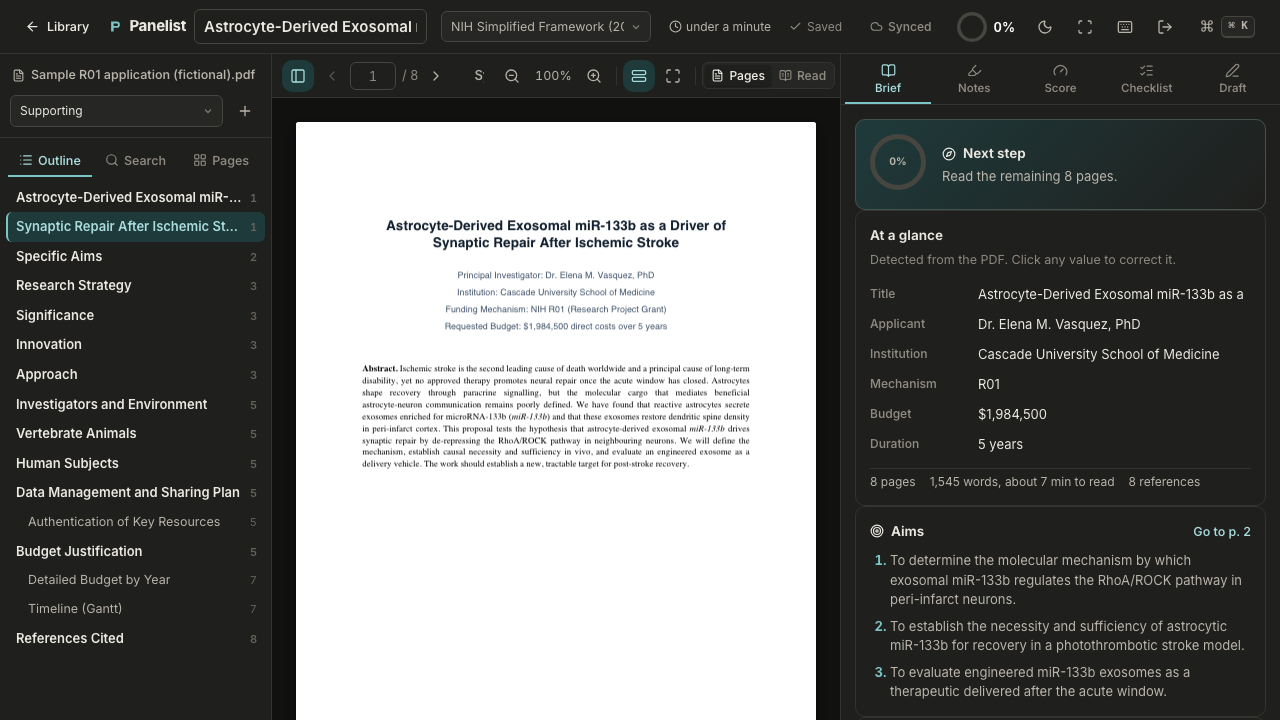
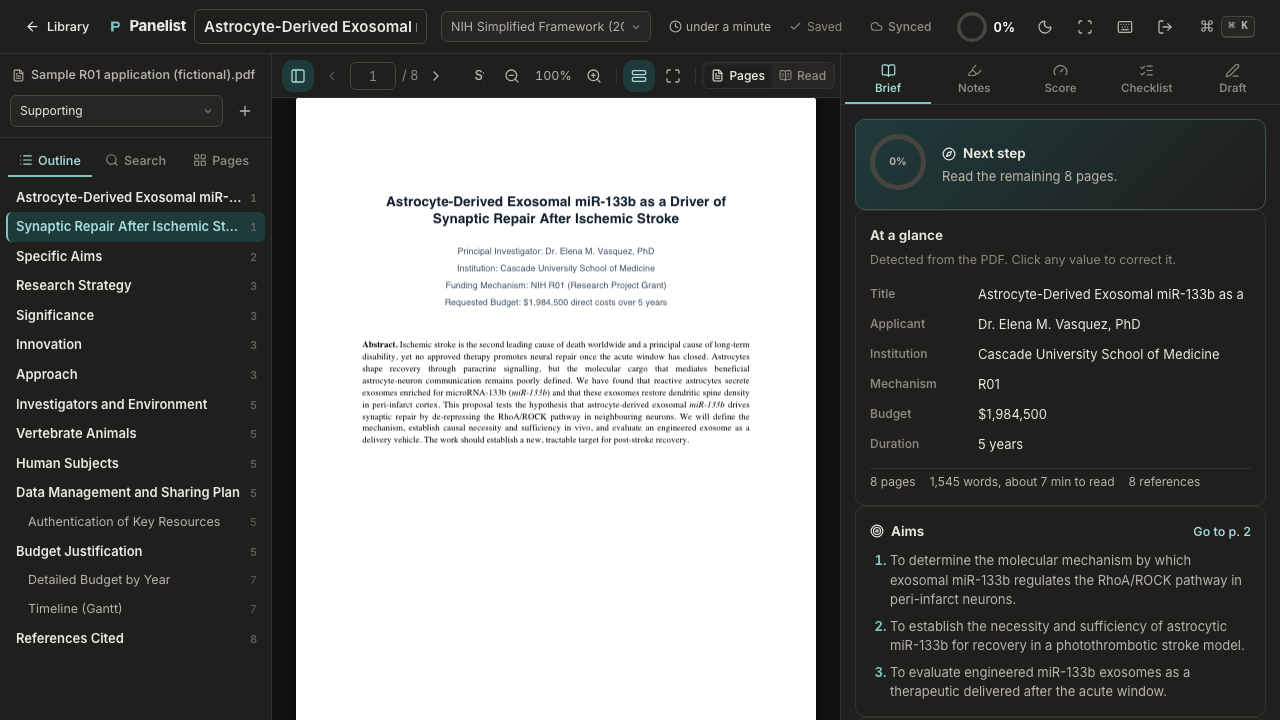
Keep the page when switching between the PDF and reading views on a phone
The PDF viewer laid pages out at a guessed 800px width before measuring its
container, restored the shared position against that layout, and then
published the resulting wrong page back to the store, so on a phone the
Pages view opened elsewhere and the reading view followed it. The viewer now
waits for a real measurement, re-anchors the current page whenever the
layout changes (zoom, fit, resize, rotation), and publishes no page until
the restore has happened.

The reading view's page tracker also probed above where jumps land a block,
so a jump to page N could report N-1; it now reads the page at the same
offset jumps use. A phone test covers the round trip.

Claude-Session: https://claude.ai/code/session_01J5WAiMnYmGh7GXbPsLHD9a

Changed region(s): [[0.2812, 0.275, 0.5938, 0.6722], [0.2188, 0.1222, 0.6562, 0.1833]]

diff --git a/src/components/viewer/PdfViewer.tsx b/src/components/viewer/PdfViewer.tsx
@@ -33,9 +33,12 @@ export function PdfViewer() {
   const searchQuery = useStore((s) => s.searchQuery);
   const navTab = useStore((s) => s.navTab);
   const scrollRef = useRef<HTMLDivElement>(null);
-  const [containerW, setContainerW] = useState(800);
+  // Zero until the scroll container is measured: laying pages out at a guessed width and
+  // restoring the scroll position against it put phones on the wrong page.
+  const [containerW, setContainerW] = useState(0);
   const [scrollTop, setScrollTop] = useState(0);
-  const [viewH, setViewH] = useState(800);
+  const [viewH, setViewH] = useState(0);
+  const measured = containerW > 0 && viewH > 0;
   const [pending, setPending] = useState<PendingSelection | null>(null);
   const [flash, setFlash] = useState<{ page: number; rect: Rect; id: number } | null>(null);
   const fw = useFramework(review.frameworkId);
@@ -50,6 +53,7 @@ export function PdfViewer() {
   const fitW = Math.min(MAX_FIT, Math.max(120, containerW - PAD * 2));
   const fitH = Math.max(160, viewH - PAD * 2);
   const layout = useMemo(() => {
+    if (!measured) return [];
     let top = PAD;
     return dims.map((d) => {
       const byWidth = fitW / Math.max(1, d.w);
@@ -61,8 +65,24 @@ export function PdfViewer() {
       top += h + GAP;
       return entry;
     });
-  }, [dims, fitW, fitH, fitMode, zoom]);
+  }, [dims, fitW, fitH, fitMode, zoom, measured]);
   const totalH = layout.length ? layout[layout.length - 1].top + layout[layout.length - 1].h + PAD : 0;
+
+  // When the layout changes (zoom, fit mode, a resize, a rotated phone), keep the same
+  // point of the same page under the top of the viewport instead of the same pixel offset.
+  const prevLayout = useRef<typeof layout>([]);
+  useLayoutEffect(() => {
+    const el = scrollRef.current;
+    const prev = prevLayout.current;
+    prevLayout.current = layout;
+    if (!el || !prev.length || !layout.length || prev === layout) return;
+    const top = el.scrollTop;
+    let i = 0;
+    for (let k = 0; k < prev.length; k++) if (prev[k].top <= top) i = k;
+    if (!layout[i]) return;
+    const frac = Math.max(0, Math.min(1, (top - prev[i].top) / Math.max(1, prev[i].h)));
+    el.scrollTop = layout[i].top + frac * layout[i].h;
+  }, [layout]);
 
   useLayoutEffect(() => {
     const el = scrollRef.current;
@@ -90,8 +110,13 @@ export function PdfViewer() {
   // A deliberate scroll dismisses a pending selection; programmatic scrolls do not.
   const dismissPending = useCallback(() => setPending((cur) => (cur ? null : cur)), []);
 
+  // Restore the last page when a document becomes ready.
+  const restoredFor = useRef<string | null>(null);
+
   useEffect(() => {
-    if (!layout.length) return;
+    // Until the shared position has been restored, the scroll offset says nothing about
+    // where the reviewer is; publishing it would overwrite the page they came from.
+    if (!layout.length || !doc || restoredFor.current !== doc.id) return;
     const probe = scrollTop + Math.min(viewH * 0.35, 300);
     let cur = 1;
     for (let i = 0; i < layout.length; i++) {
@@ -99,10 +124,8 @@ export function PdfViewer() {
       else break;
     }
     useStore.getState().setPage(cur);
-  }, [scrollTop, layout, viewH]);
+  }, [scrollTop, layout, viewH, doc]);
 
-  // Restore the last page when a document becomes ready.
-  const restoredFor = useRef<string | null>(null);
   useEffect(() => {
     if (!ready || !doc || !layout.length) return;
     if (restoredFor.current === doc.id) return;
@@ -111,6 +134,7 @@ export function PdfViewer() {
     const el = scrollRef.current;
     if (el && last > 1 && layout[last - 1]) {
       el.scrollTop = layout[last - 1].top - PAD;
+      setScrollTop(el.scrollTop);
       useStore.getState().announceResume(doc.id, last, sectionAt(doc.outline, last, 1)?.title);
     }
   }, [ready, doc, layout, review.lastPage]);

diff --git a/src/components/reader/ReadView.tsx b/src/components/reader/ReadView.tsx
@@ -22,6 +22,8 @@ import { ViewModeToggle } from '../viewer/ViewModeToggle';
 import { IconButton, KIND_META } from '../ui';
 
 const STICKY = 8;
+/** Jumps place the target block this far below the top edge, so "current page" is read there too. */
+const JUMP_OFFSET = 72;
 
 function readScale(): number {
   try {
@@ -83,7 +85,9 @@ export function ReadView() {
       const el = scrollRef.current;
       const root = contentRef.current;
       if (!el || !root) return;
-      const top = el.getBoundingClientRect().top + STICKY;
+      // Probe just below where jumps land a block, so a jump to page N reports page N and
+      // not the tail of the previous block still visible above it.
+      const top = el.getBoundingClientRect().top + JUMP_OFFSET + STICKY;
       const blocks = root.querySelectorAll<HTMLElement>('[data-block]');
       let current: HTMLElement | null = null;
       for (const b of blocks) {
@@ -110,7 +114,7 @@ export function ReadView() {
     if (!el || !root || !blockId) return;
     const target = root.querySelector<HTMLElement>(`[data-block="${CSS.escape(blockId)}"]`);
     if (!target) return;
-    const top = target.getBoundingClientRect().top - el.getBoundingClientRect().top + el.scrollTop - 72;
+    const top = target.getBoundingClientRect().top - el.getBoundingClientRect().top + el.scrollTop - JUMP_OFFSET;
     el.scrollTo({ top: Math.max(0, top), behavior: 'smooth' });
     if (flash) {
       target.classList.add('is-flash');

diff --git a/e2e/mobile.spec.ts b/e2e/mobile.spec.ts
@@ -31,6 +31,19 @@ test('the view toggle stays within reach and switches both ways on a phone', asy
   await page.screenshot({ path: path.join(shots, '20-phone-pages.png') });
   await page.getByRole('radio', { name: 'Read' }).click();
   await expect(page.locator('.read-content')).toBeVisible({ timeout: 60_000 });
+  // The reading position carries across both ways: read on page 3, the PDF opens on page 3,
+  // and coming back lands on page 3 again (phones used to restore against an unmeasured layout).
+  await page.getByLabel('Page number').fill('3');
+  await expect(page.getByLabel('Page number')).toHaveValue('3');
+  await page.waitForTimeout(500);
+  await page.getByRole('radio', { name: 'Pages' }).click();
+  await expect(page.locator('.pdf-canvas').first()).toBeVisible({ timeout: 30_000 });
+  await expect(page.getByLabel('Page number')).toHaveValue('3', { timeout: 10_000 });
+  await page.waitForTimeout(500);
+  await expect(page.getByLabel('Page number')).toHaveValue('3');
+  await page.getByRole('radio', { name: 'Read' }).click();
+  await expect(page.locator('.read-content')).toBeVisible({ timeout: 60_000 });
+  await expect(page.getByLabel('Page number')).toHaveValue('3', { timeout: 10_000 });
   // The "more" menu holds the secondary controls.
   await page.getByRole('button', { name: 'More' }).click();
   await expect(page.getByRole('menuitem', { name: /Sign out/ })).toBeVisible();
